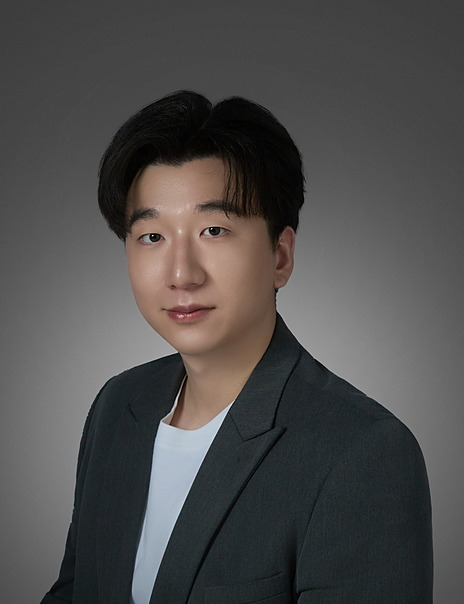
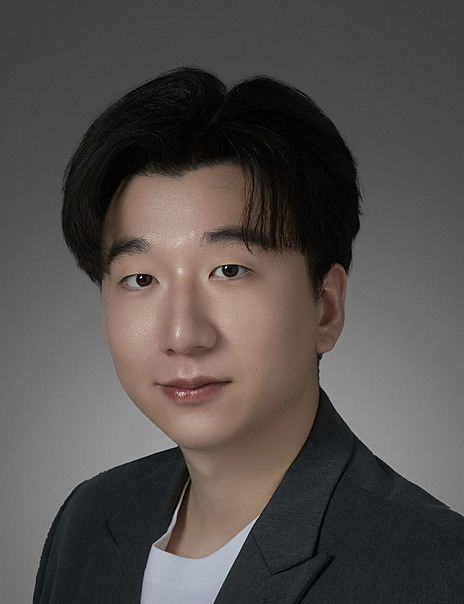
Centre the subject in the portrait
He is seated at an angle, so his head and body do not share an axis: on a
1000px scale the face sits at x~508 and the shoulders at x~575. Centring on
either one looks wrong -- the face leaves a bare patch of backdrop on the
right, the body visibly drifts the face left.

Re-cropped from the 1:1 studio original instead, centring the subject's
pixel mass and tightening the frame so more of the off-axis shoulder falls
outside it. At H=630 the two axes converge to 9px apart in a 232px render
and the subject spans ~93% of the frame width, so there is no lopsided
margin left to give the tilt away.

Filename is stable, so the img gets ?v=2 or browsers keep the old crop.

diff --git a/index.html b/index.html
@@ -92,7 +92,7 @@
       <!-- The barrier is markup rather than JS-injected so it is still there
            if the mascot is switched off; js/vegeta.js only lights it up. -->
       <figure class="hero-photo">
-        <img src="images/portrait-2026.jpg" alt="Portrait of Jiahao Zhang" width="232" height="302">
+        <img src="images/portrait-2026.jpg?v=2" alt="Portrait of Jiahao Zhang" width="232" height="302">
         <span class="shield" id="shield" aria-hidden="true"></span>
       </figure>
     </header>
